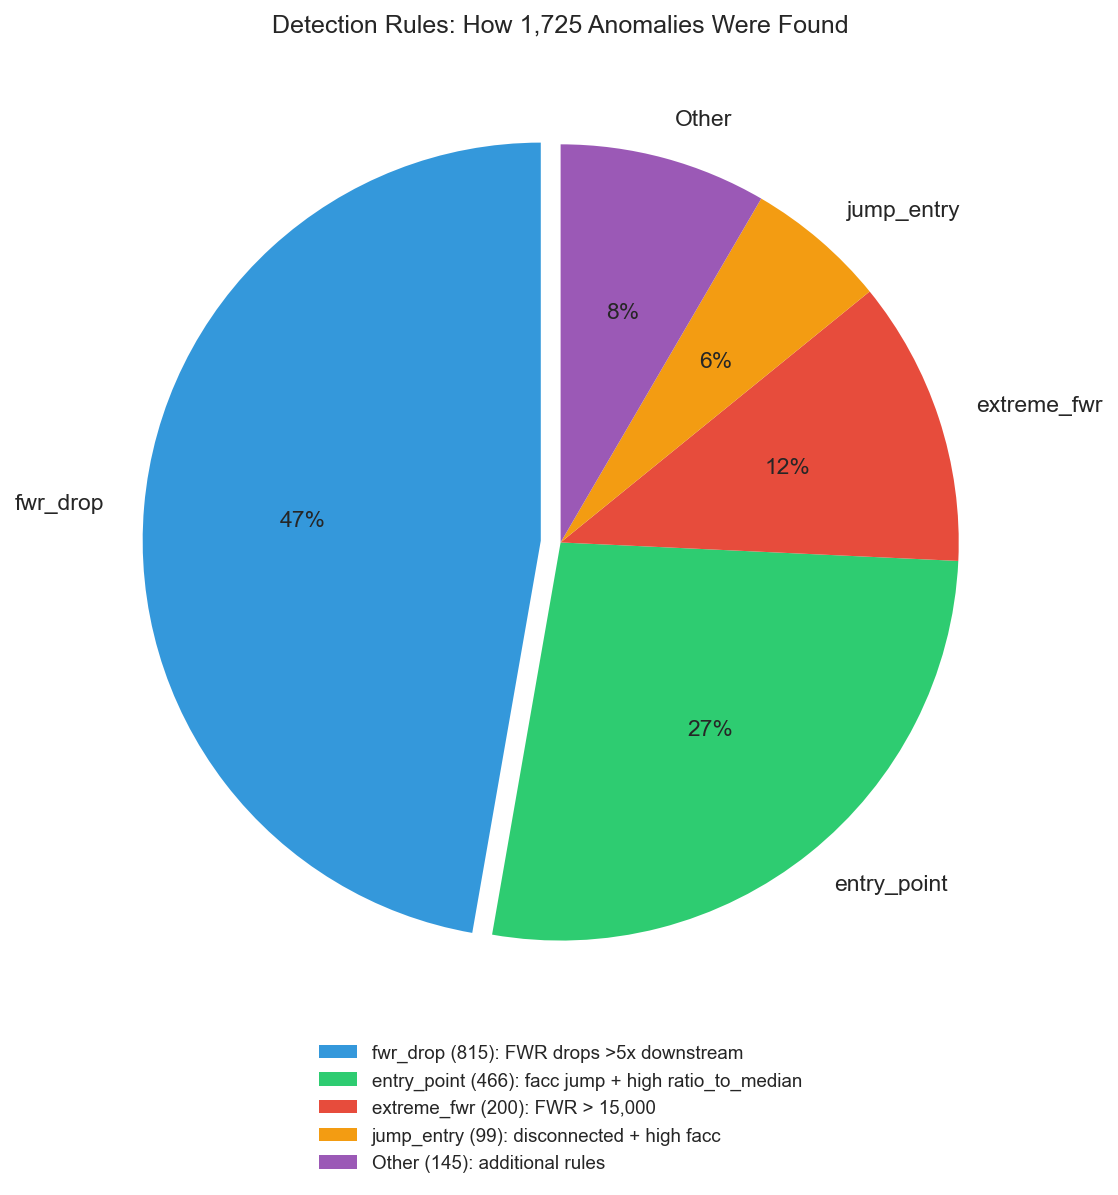
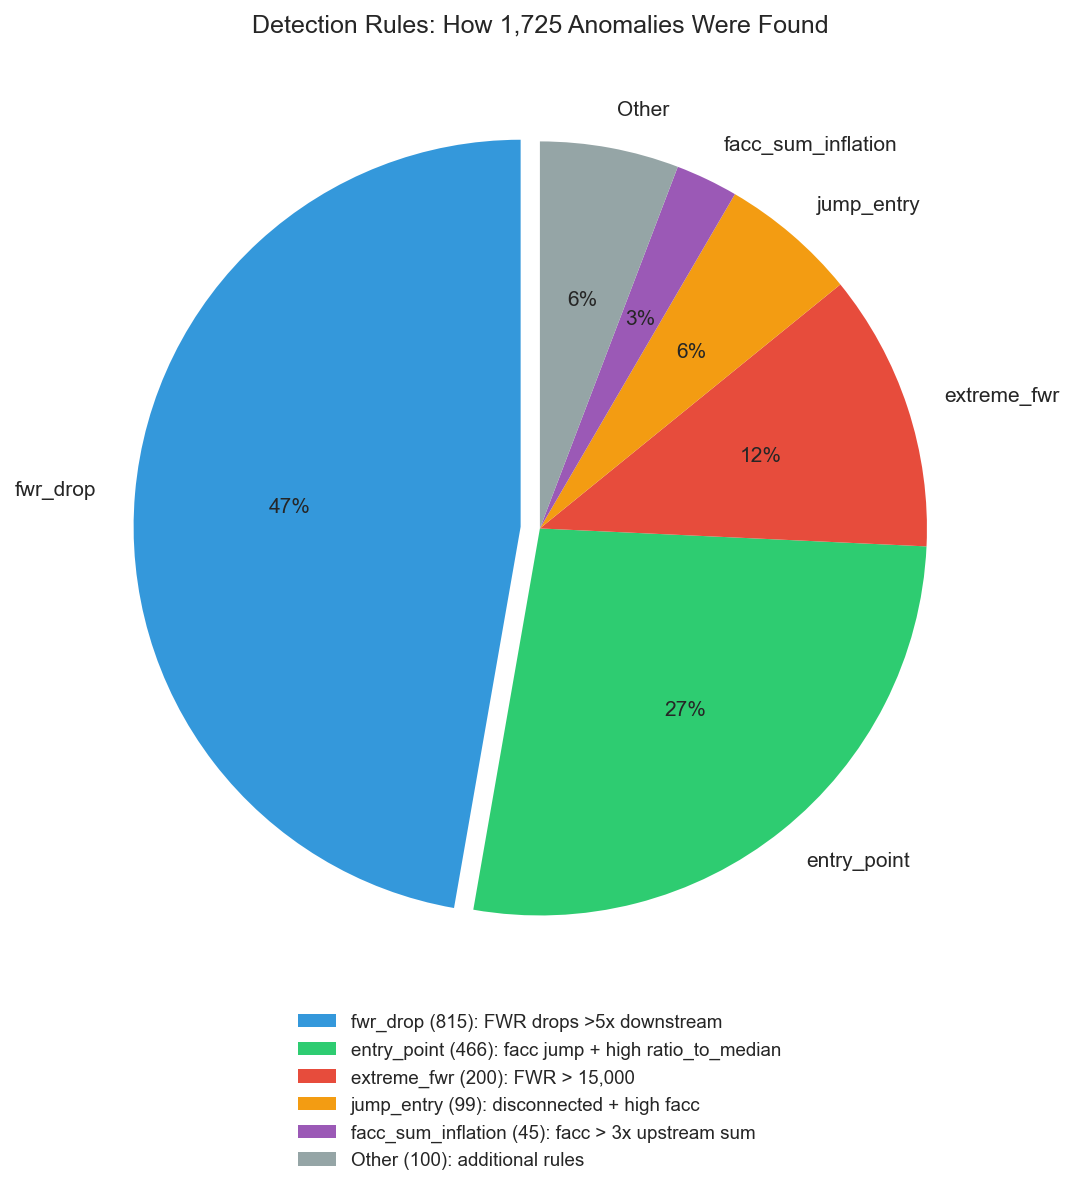
Add ratio_to_median and facc_sum_inflation to report
- Added ratio_to_median metric: facc/path_freq vs regional median
- Added upstream sum comparison: facc vs SUM(upstream_facc)
- Added facc_sum_inflation rule (45 detections, 3%)
- Updated detection rules pie chart

diff --git a/scripts/generate_facc_figures.py b/scripts/generate_facc_figures.py
@@ -150,13 +150,14 @@ def fig4_detection_rules():
         'entry_point': 466,
         'extreme_fwr': 200,
         'jump_entry': 99,
-        'Other': 145
+        'facc_sum_inflation': 45,
+        'Other': 100
     }
 
     fig, ax = plt.subplots(figsize=(8, 8))
 
-    colors = ['#3498db', '#2ecc71', '#e74c3c', '#f39c12', '#9b59b6']
-    explode = (0.05, 0, 0, 0, 0)
+    colors = ['#3498db', '#2ecc71', '#e74c3c', '#f39c12', '#9b59b6', '#95a5a6']
+    explode = (0.05, 0, 0, 0, 0, 0)
 
     wedges, texts, autotexts = ax.pie(
         rules.values(),
@@ -165,14 +166,8 @@ def fig4_detection_rules():
         colors=colors,
         explode=explode,
         startangle=90,
-        textprops={'fontsize': 11}
+        textprops={'fontsize': 10}
     )
-
-    # Add count labels
-    for i, (wedge, (rule, count)) in enumerate(zip(wedges, rules.items())):
-        angle = (wedge.theta2 - wedge.theta1) / 2 + wedge.theta1
-        x = 0.7 * np.cos(np.radians(angle))
-        y = 0.7 * np.sin(np.radians(angle))
 
     ax.set_title('Detection Rules: How 1,725 Anomalies Were Found', fontsize=12)
 
@@ -182,9 +177,10 @@ def fig4_detection_rules():
         'entry_point (466): facc jump + high ratio_to_median',
         'extreme_fwr (200): FWR > 15,000',
         'jump_entry (99): disconnected + high facc',
-        'Other (145): additional rules'
+        'facc_sum_inflation (45): facc > 3x upstream sum',
+        'Other (100): additional rules'
     ]
-    ax.legend(wedges, legend_labels, loc='lower center', bbox_to_anchor=(0.5, -0.15),
+    ax.legend(wedges, legend_labels, loc='lower center', bbox_to_anchor=(0.5, -0.18),
               fontsize=9)
 
     plt.tight_layout()

diff --git a/docs/facc_correction_summary.md b/docs/facc_correction_summary.md
@@ -15,7 +15,9 @@ When SWORD reaches are assigned facc values from MERIT Hydro:
 
 ## Detection: How We Found Them
 
-### Key Metric: Flow-Width Ratio (FWR)
+### Key Metrics
+
+**1. Flow-Width Ratio (FWR)**
 
 ```
 FWR = facc / width
@@ -28,6 +30,32 @@ FWR = facc / width
 | Secondary outlet | ~1 |
 
 Anomalous reaches have FWR of 2,000-75,000.
+
+---
+
+**2. Ratio to Median (facc vs network position)**
+
+```
+facc_per_reach = facc / path_freq
+ratio_to_median = facc_per_reach / regional_median
+```
+
+`path_freq` is a traversal count that increases toward outlets - essentially "how many upstream reaches flow into this point."
+
+- **Normal:** ratio_to_median = 0.5-2.0
+- **Anomaly:** ratio_to_median = 40-1000+
+
+This catches reaches with facc way too high for their network position.
+
+---
+
+**3. Upstream Sum Comparison**
+
+```
+facc vs SUM(upstream_facc)
+```
+
+At confluences, a reach's facc should roughly equal the sum of its upstream tributaries. If `facc > 3× upstream_sum`, the reach grabbed facc from the wrong MERIT cell.
 
 ### Detection Rules
 
@@ -90,6 +118,19 @@ AND facc > 1000
 
 ---
 
+**5. facc_sum_inflation (45 detections)**
+
+*Logic:* At confluences, facc should equal the sum of upstream tributaries. Large inflation indicates D8 error.
+
+```
+n_rch_up >= 2   (confluence)
+AND facc > 3 × SUM(upstream_facc)
+```
+
+*Why it works:* Mass balance. If two tributaries with facc = 100K and 50K meet, the downstream reach should have ~150K. If it has 500K+, the reach grabbed facc from a different MERIT cell.
+
+---
+
 ### Detection Summary
 
 ![Detection Rules Breakdown](../output/facc_detection/figures/fig4_detection_rules.png)
@@ -100,7 +141,8 @@ AND facc > 1000
 | entry_point | 466 | 27% |
 | extreme_fwr | 200 | 12% |
 | jump_entry | 99 | 6% |
-| Other | 145 | 8% |
+| facc_sum_inflation | 45 | 3% |
+| Other | 100 | 6% |
 | **Total** | **1,725** | 100% |
 
 ---
